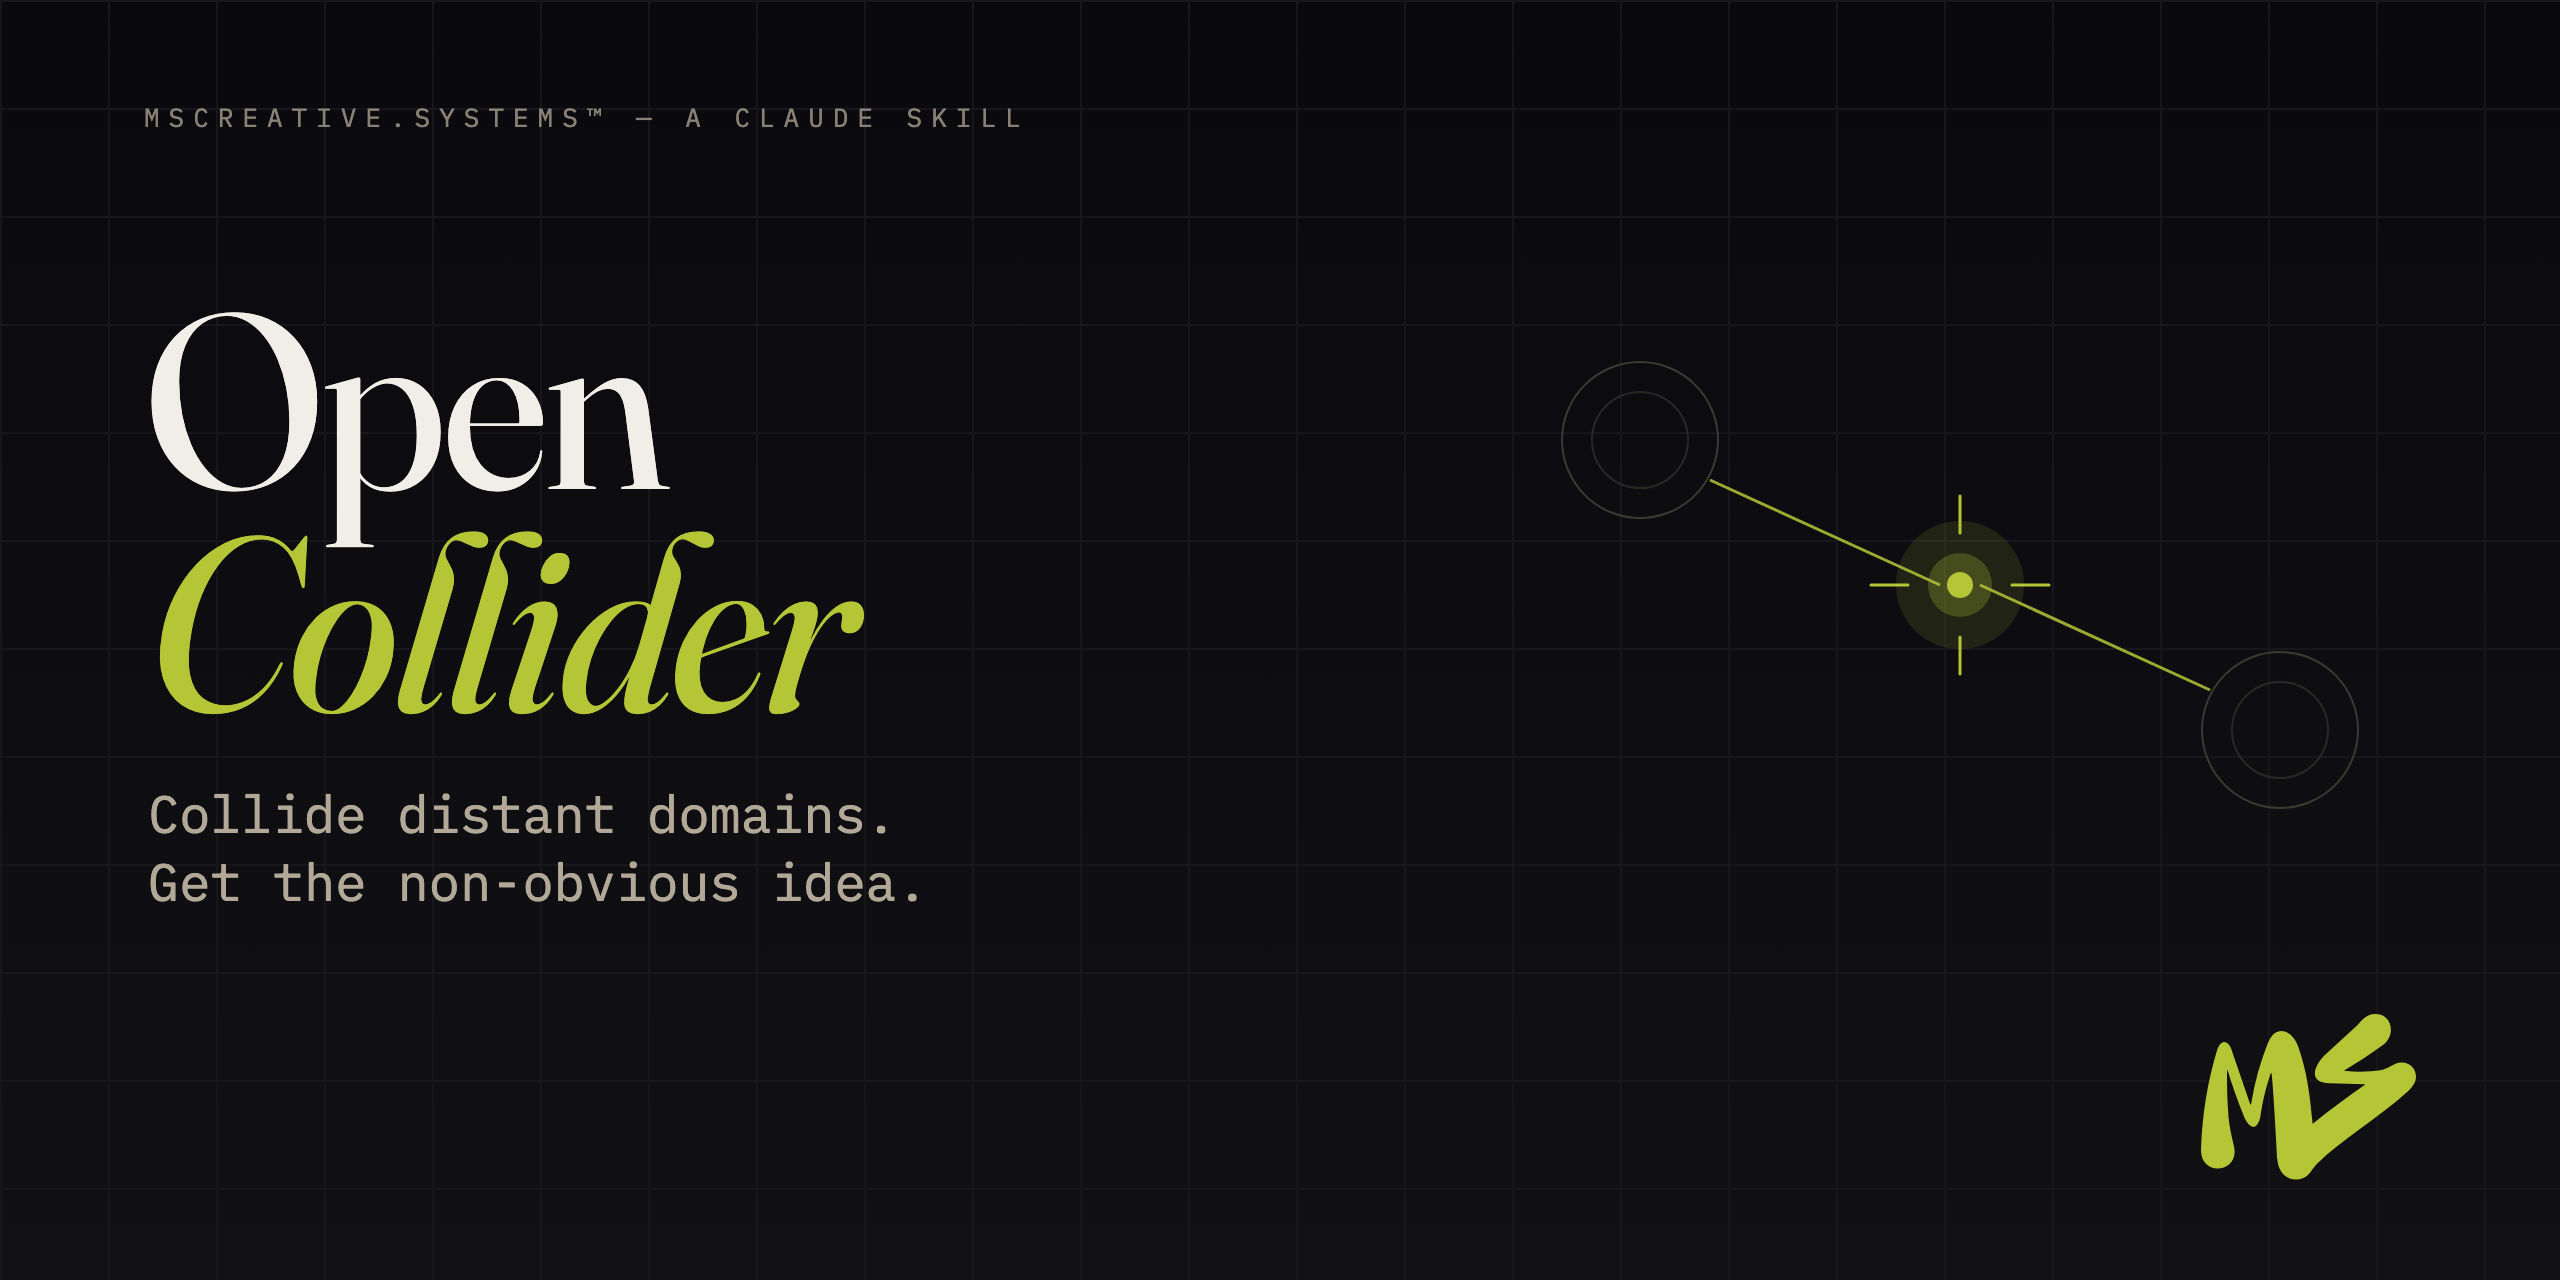
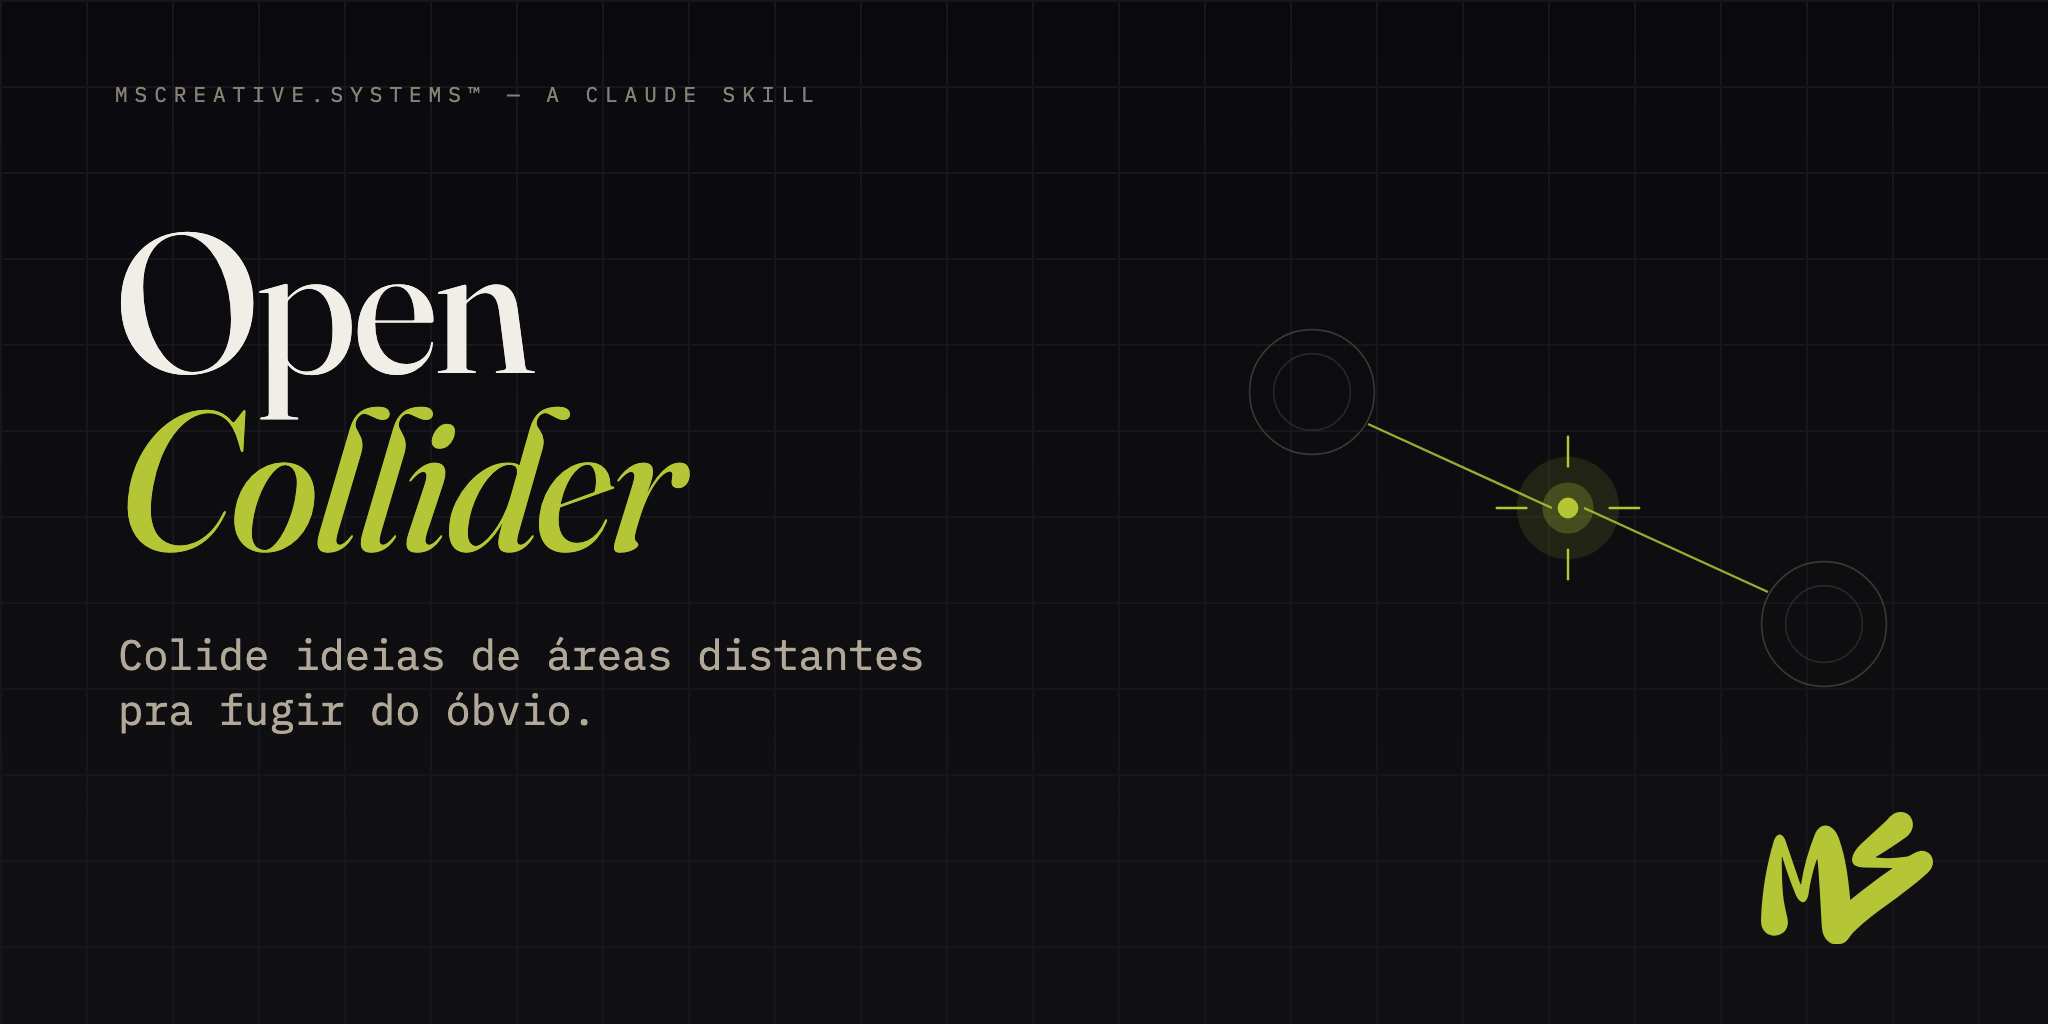
feat(card): social preview 2048×1024 em paridade com prompt-chain (#1)
Subtítulo em PT (voz Tradutor), canvas 2048×1024, acento lima #B4C636.
Mantém kicker mono, título Fraunces (Collider em lima itálico),
grafismo de colisão e monograma MS.

diff --git a/assets/social-preview.html b/assets/social-preview.html
@@ -1,19 +1,23 @@
-<!doctype html><html lang="en"><head><meta charset="utf-8"><link rel="preconnect" href="https://fonts.googleapis.com"><link rel="preconnect" href="https://fonts.gstatic.com" crossorigin><link href="https://fonts.googleapis.com/css2?family=Fraunces:ital,opsz,wght@0,9..144,300..700;1,9..144,300..700&family=IBM+Plex+Mono:wght@400;500&display=swap" rel="stylesheet">
+<!doctype html><html lang="pt-BR"><head><meta charset="utf-8">
+<!-- Social preview 2048×1024 — DS v4 (acento lima #B4C636)
+     Render: Chrome headless, --window-size=2048,1024 --force-device-scale-factor=1 --hide-scrollbars
+     Upload: repo Settings → Social preview (UI; não versiona via git no GitHub) -->
+<link rel="preconnect" href="https://fonts.googleapis.com"><link rel="preconnect" href="https://fonts.gstatic.com" crossorigin><link href="https://fonts.googleapis.com/css2?family=Fraunces:ital,opsz,wght@0,9..144,300..700;1,9..144,300..700&family=IBM+Plex+Mono:wght@400;500&display=swap" rel="stylesheet">
 <style>
 *{margin:0;padding:0;box-sizing:border-box}
-body{width:2560px;height:1280px;position:relative;overflow:hidden;background-color:#0A0A0E;
+body{width:2048px;height:1024px;position:relative;overflow:hidden;background-color:#0A0A0E;
 background-image:linear-gradient(#16161B 2px,transparent 2px),linear-gradient(90deg,#16161B 2px,transparent 2px),linear-gradient(180deg,#0A0A0E 0%,#111114 100%);
-background-size:108px 108px,108px 108px,100% 100%;}
-.kicker{position:absolute;top:100px;left:144px;font-family:'IBM Plex Mono',monospace;font-size:26px;letter-spacing:9px;color:#B2A898;opacity:.75}
-.title{position:absolute;left:144px;top:288px;font-family:'Fraunces',Georgia,serif;font-optical-sizing:auto;font-weight:420;font-size:248px;line-height:.9;color:#F0EEE6;letter-spacing:-3px}
+background-size:86px 86px,86px 86px,100% 100%;}
+.kicker{position:absolute;top:80px;left:115px;font-family:'IBM Plex Mono',monospace;font-size:21px;letter-spacing:7px;color:#B2A898;opacity:.75}
+.title{position:absolute;left:115px;top:212px;font-family:'Fraunces',Georgia,serif;font-optical-sizing:auto;font-weight:420;font-size:198px;line-height:.9;color:#F0EEE6;letter-spacing:-2.4px}
 .title em{font-style:italic;color:#B4C636}
-.subtitle{position:absolute;left:148px;top:780px;font-family:'IBM Plex Mono',monospace;font-size:52px;line-height:1.3;color:#B2A898;max-width:1500px}
-.monogram{position:absolute;right:144px;bottom:100px;width:215px;color:#B4C636}
-.collide{position:absolute;right:160px;top:300px;width:880px;height:560px}
+.subtitle{position:absolute;left:118px;top:628px;font-family:'IBM Plex Mono',monospace;font-size:42px;line-height:1.3;color:#B2A898;max-width:1200px}
+.monogram{position:absolute;right:115px;bottom:80px;width:172px;color:#B4C636}
+.collide{position:absolute;right:128px;top:280px;width:704px;height:448px}
 </style></head><body>
 <div class="kicker">MSCREATIVE.SYSTEMS&trade; &mdash; A CLAUDE SKILL</div>
 <div class="title">Open<br><em>Collider</em></div>
-<div class="subtitle">Collide distant domains.<br>Get the non-obvious idea.</div>
+<div class="subtitle">Colide ideias de &aacute;reas distantes<br>pra fugir do &oacute;bvio.</div>
 <svg class="collide" viewBox="0 0 880 560" fill="none" xmlns="http://www.w3.org/2000/svg">
   <g stroke="#3A3A30" stroke-width="2">
     <circle cx="120" cy="140" r="78"/>